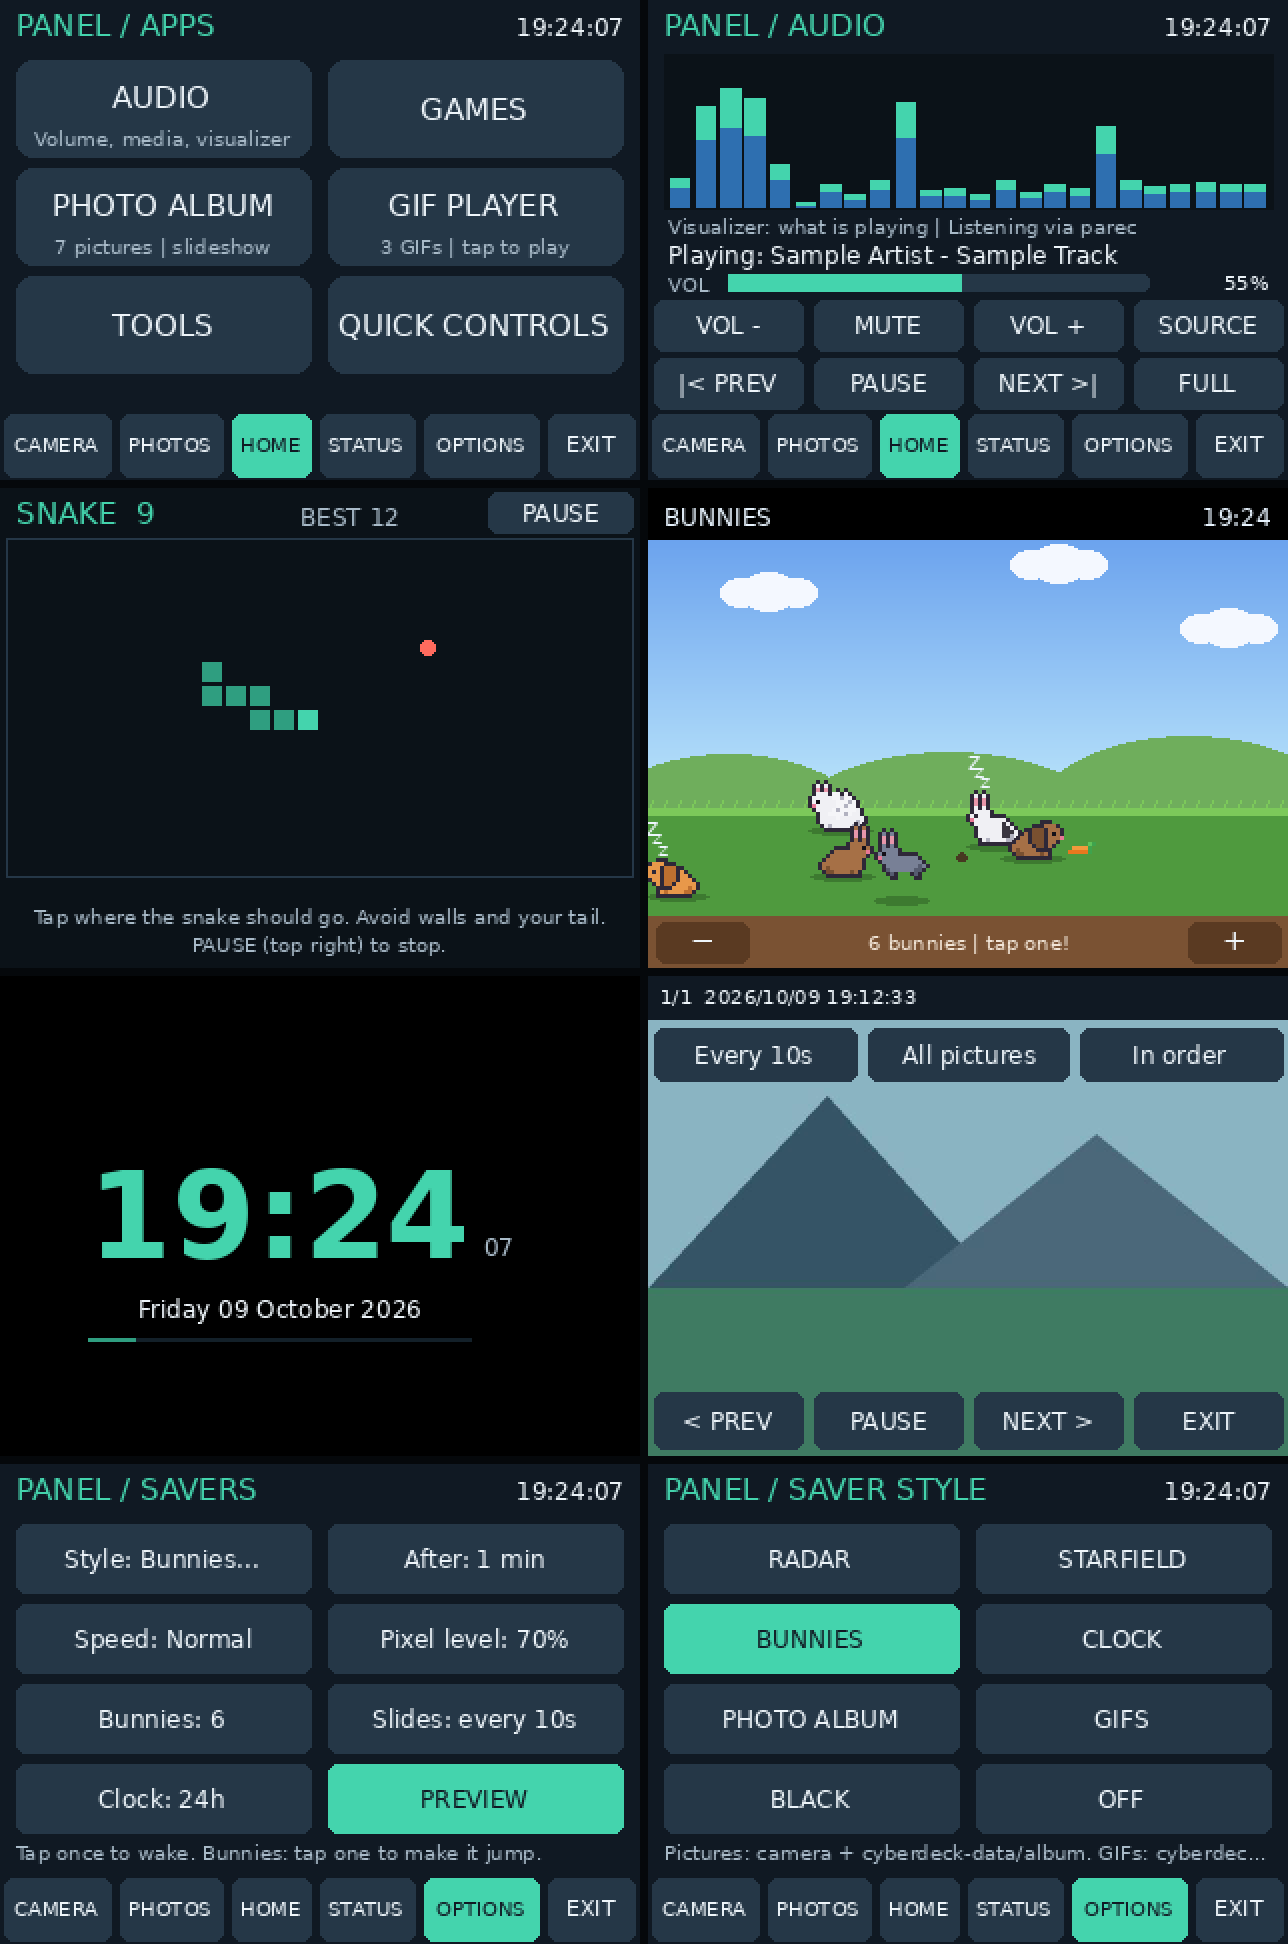
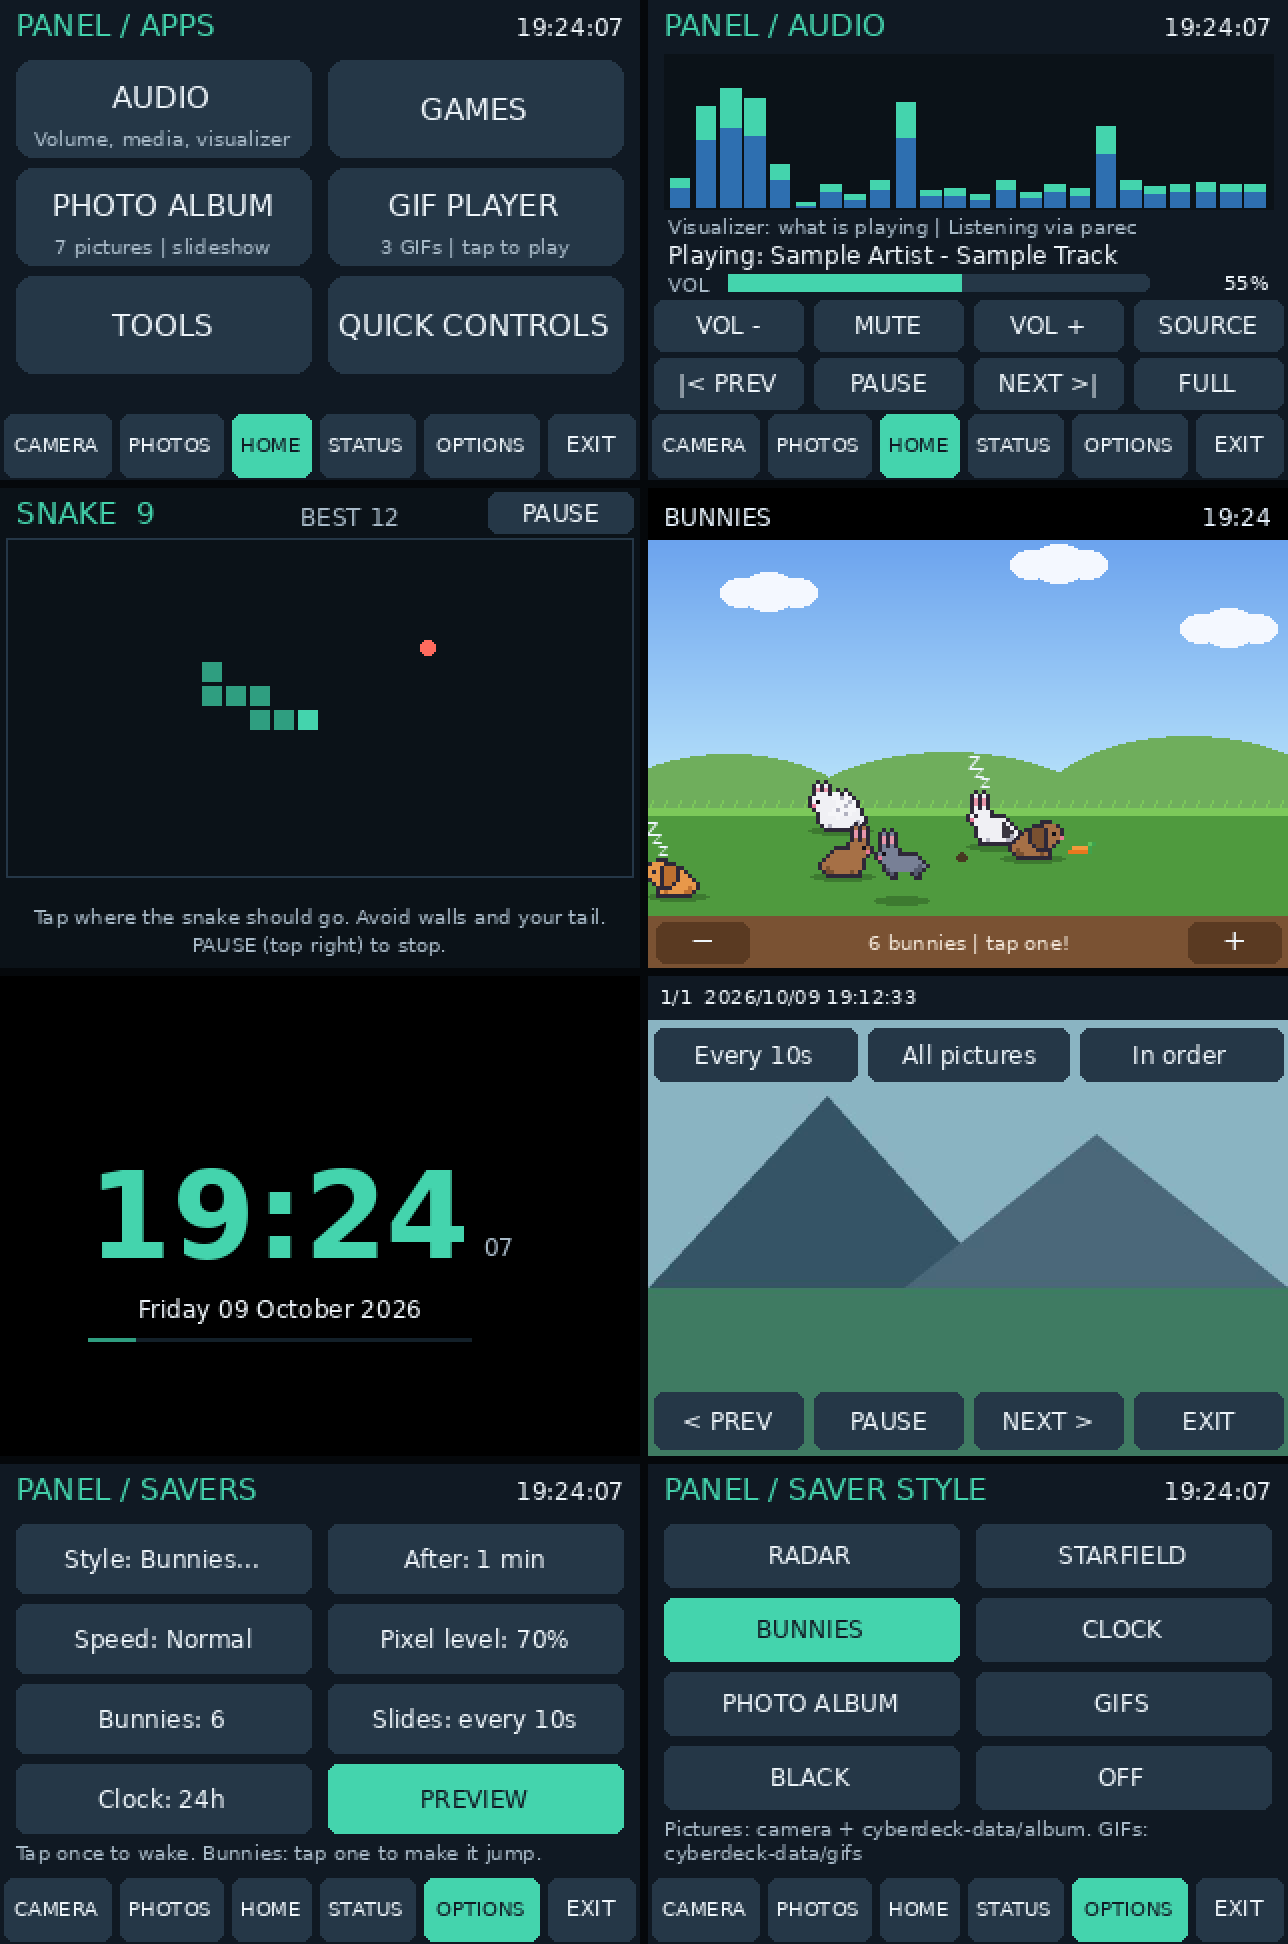
Wrap long page notes onto a second line instead of cutting them off
The Options, Savers and Saver Style footnotes ended in "..." in portrait
(and Saver Style in landscape too). A note that needs two lines now takes
12 px from the button grid. The audio page's playerctl hint is shortened
so it fits the portrait width. Previews regenerated; they also pick up
the HISTORY button added in Phase 1.

Claude-Session: https://claude.ai/code/session_016w3uQjEr2ZwcCKuYp4Kst7

Changed region(s): [[0.4969, 0.7716, 0.9938, 0.9568]]

diff --git a/panel_app.py b/panel_app.py
@@ -3688,11 +3688,14 @@ def render_page(page, frame, paused, fps, rows, message, history=(), now=None,
             actions = [f'style:{style}' for style in SAVER_STYLES]
             active = [options['saver_style'] == style for style in SAVER_STYLES]
             note = 'Pictures: camera + cyberdeck-data/album. GIFs: cyberdeck-data/gifs'
-        rects = grid_rects(len(labels))
+        note_lines = wrap_text(d, note, W-16, TINY)
+        # A two-line note takes 12 px from the buttons rather than being cut off.
+        rects = grid_rects(len(labels), bottom=bottom-12*(len(note_lines)-1))
         for rect, label, action, on in zip(rects, labels, actions, active):
             button(d, rect, label, on, action=action)
-        d.text((8, rects[-1][3]+4), fit_text(d, note, W-16, TINY), font=TINY,
-               fill=TEXT if page == 'options' and message else MUTED)
+        for i, line in enumerate(note_lines):
+            d.text((8, rects[-1][3]+4+12*i), line, font=TINY,
+                   fill=TEXT if page == 'options' and message else MUTED)
     elif page == 'home':
         notes = extra.get('home', {})
         clock = wall_time.strftime('%H:%M')
@@ -3756,7 +3759,7 @@ def render_page(page, frame, paused, fps, rows, message, history=(), now=None,
         elif state.get('player'):
             playing = 'No media player running'
         else:
-            playing = 'Media keys need playerctl (see docs)'
+            playing = 'Install playerctl for media keys'  # Fits the portrait width too.
         d.text((10, vis_bottom+16), fit_text(d, playing, W-20, SMALL), font=SMALL, fill=TEXT)
         volume = state.get('volume')
         bar_y = vis_bottom+33

diff --git a/tests/test_panel_app.py b/tests/test_panel_app.py
@@ -12,7 +12,7 @@ from collections import deque
 from datetime import datetime
 
 import numpy as np
-from PIL import Image, ImageDraw
+from PIL import Image, ImageColor, ImageDraw
 
 sys.path.insert(0, str(Path(__file__).resolve().parents[1]))
 import panel_app as app  # noqa: E402
@@ -252,6 +252,19 @@ class RotationTest(unittest.TestCase):
         self.assertEqual(app.hit(*app.grid_rects(10)[0][:2]), None)  # Status has no grid.
         for label in ('Pixel level: 100%', 'Calibrate touch...', 'Screen: 90\u00b0 CW'):
             self.assertLess(d.textlength(label, font=app.SMALL), 240)
+
+    def test_long_page_notes_wrap_instead_of_being_cut(self):
+        background = ImageColor.getrgb(app.BG)
+        for degrees in (0, 90):
+            app.set_rotation(degrees)
+            for page, lines in (('options', 1 if degrees == 0 else 2), ('saverstyle', 2)):
+                image = app.render(page, None, False, 20, self.rows, '')
+                top = max(y1 for (_, _, _, y1), a in app.HOTSPOTS if not a.startswith('tab:'))+1
+                inked = [any(image.getpixel((x, y)) != background for x in range(app.W))
+                         for y in range(top, app.content_bottom()+1)]
+                bands = sum(1 for i, ink in enumerate(inked) if ink and (i == 0 or not inked[i-1]))
+                self.assertEqual(bands, lines, (degrees, page))
+                self.assertFalse(inked[-1], (degrees, page))  # Clear of the tab bar.
 
     def test_portrait_savers_and_apps(self):
         app.set_rotation(90)
